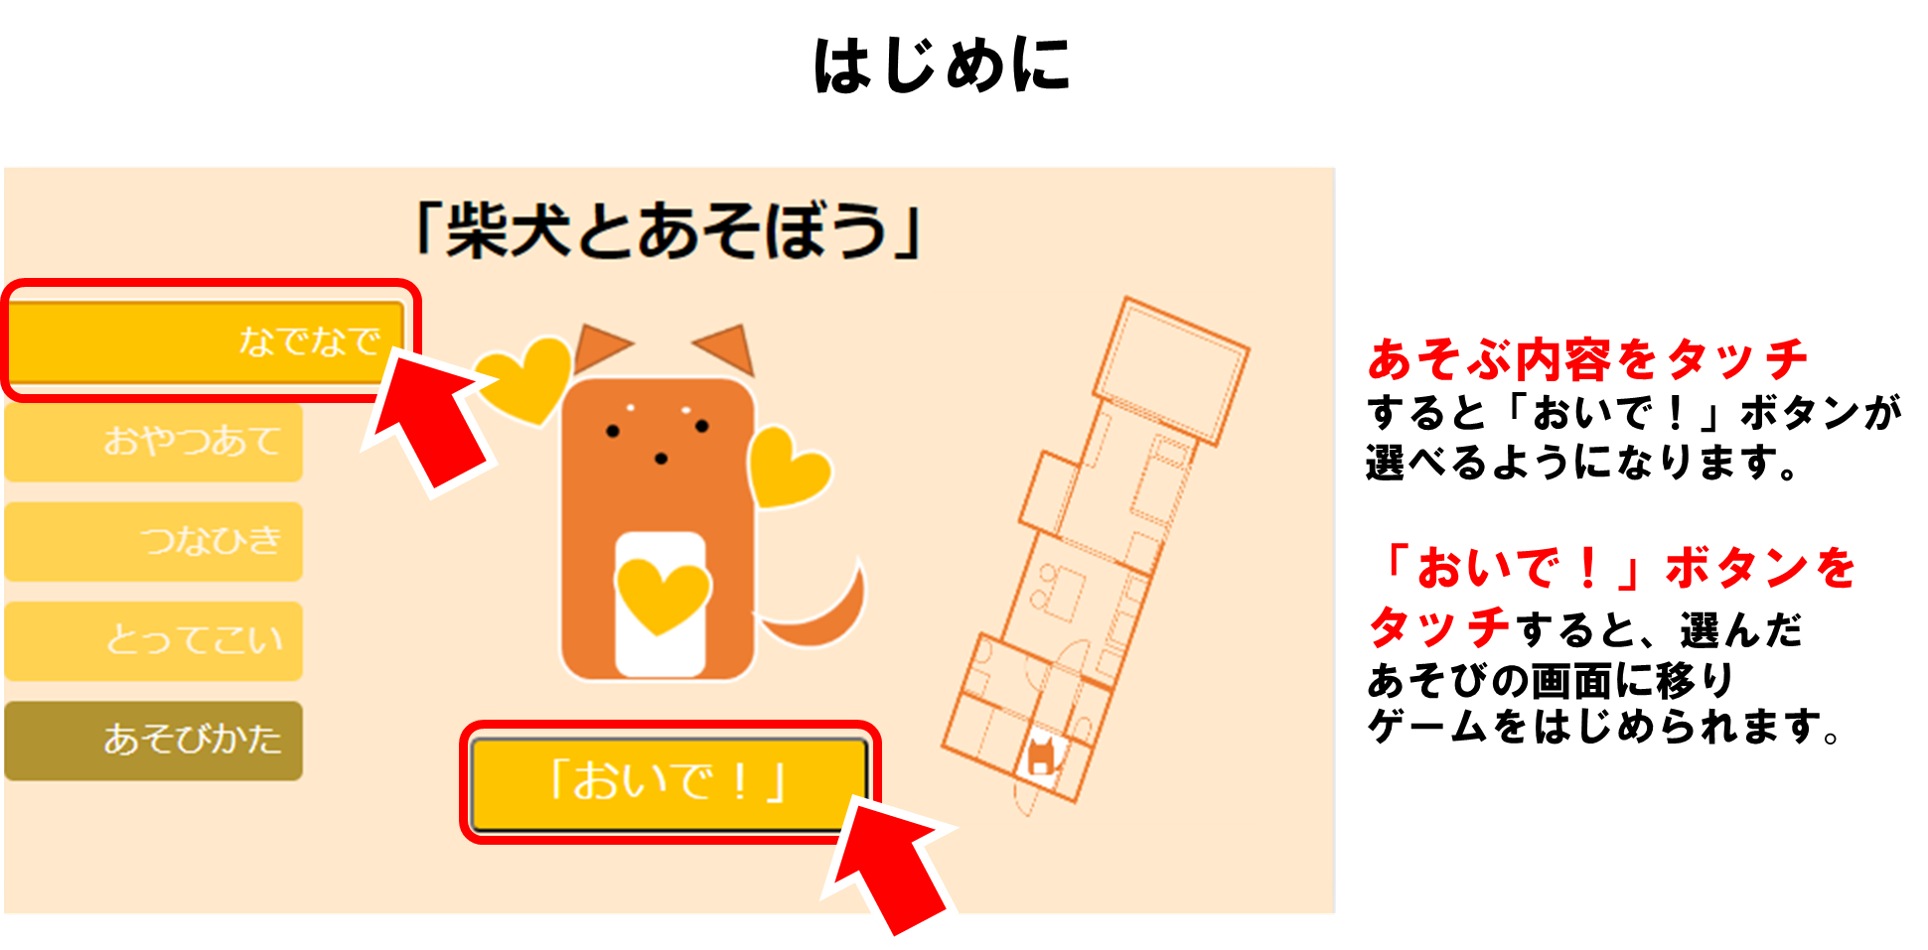
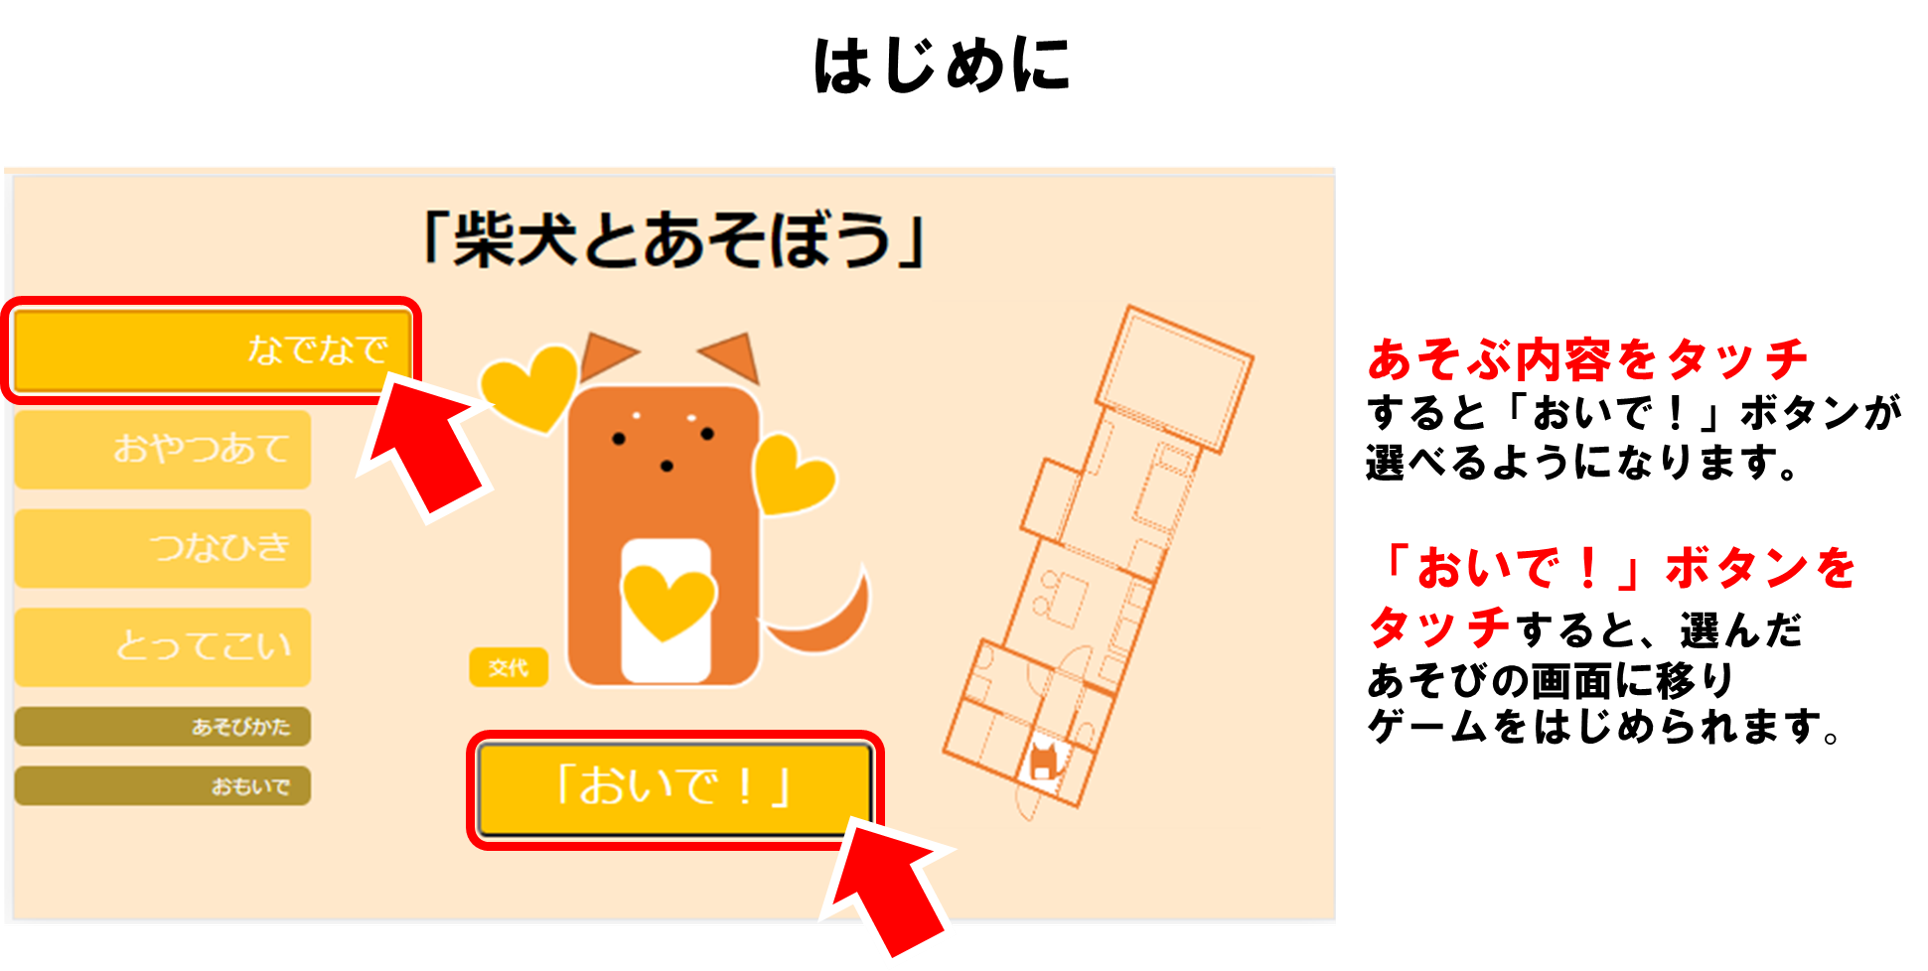
13:26

diff --git a/memory.html b/memory.html
@@ -1,0 +1,120 @@
+<!DOCTYPE html>
+<html lang="ja">
+<head>
+  <link rel="stylesheet" href="stylesheet.css">
+  <link href="https://use.fontawesome.com/releases/v5.0.8/css/all.css" rel="stylesheet">
+  <meta charset="utf-8">
+  <meta name="viewport" content="width=device-width,initial-scale=1">
+  <title>柴犬とあそぼう</title>
+</head>
+<body>
+  <header>
+    <h1>おもいで</h1>
+  </header>
+  <main>
+    <section class="memory_title">
+      <h4>なでなで</h4>
+      <h4>おやつあて</h4>
+      <h4>つなひき</h4>
+      <h4>とってこい</h4>
+    </section>
+
+    <section  class="memory_table">
+      <table class="nade" align="center">
+        <tr>
+          <th>おもいで</th>
+          <th>入手</th>
+        </tr>
+        <tr>
+          <td>- - -</td>
+          <td class="td_img"><img id="memory_niku" src="img/memory.png"></td>
+        </tr>
+        <tr>
+          <td>- - ♡</td>
+          <td class="td_img"><img id="memory_niku" src="img/memory.png"></td>
+        </tr>
+        <tr>
+          <td>- ♡♡</td>
+          <td class="td_img"><img id="memory_niku" src="img/memory.png"></td>
+        </tr>
+        <tr>
+          <td>♡♡♡</td>
+          <td class="td_img"><img id="memory_niku" src="img/memory.png"></td>
+        </tr>
+      </table>
+      <table class="oyatsu" align="center">
+        <tr>
+          <th>おもいで</th>
+          <th>入手</th>
+        </tr>
+        <tr>
+          <td>score0</td>
+          <td class="td_img"><img id="memory_niku" src="img/memory.png"></td>
+        </tr>
+        <tr>
+          <td>score1</td>
+          <td class="td_img"><img id="memory_niku" src="img/memory.png"></td>
+        </tr>
+        <tr>
+          <td>score2</td>
+          <td class="td_img"><img id="memory_niku" src="img/memory.png"></td>
+        </tr>
+        <tr>
+          <td>score3</td>
+          <td class="td_img"><img id="memory_niku" src="img/memory.png"></td>
+        </tr>
+      </table>
+      <table class="tsuna" align="center">
+        <tr>
+          <th>おもいで</th>
+          <th>入手</th>
+        </tr>
+        <tr>
+          <td>score0</td>
+          <td class="td_img"><img id="memory_niku" src="img/memory.png"></td>
+        </tr>
+        <tr>
+          <td>score1</td>
+          <td class="td_img"><img id="memory_niku" src="img/memory.png"></td>
+        </tr>
+        <tr>
+          <td>score2</td>
+          <td class="td_img"><img id="memory_niku" src="img/memory.png"></td>
+        </tr>
+        <tr>
+          <td>score3</td>
+          <td class="td_img"><img id="memory_niku" src="img/memory.png"></td>
+        </tr>
+      </table>
+      <table class="totte" align="center">
+        <tr>
+          <th>おもいで</th>
+          <th>入手</th>
+        </tr>
+        <tr>
+          <td>score0</td>
+          <td class="td_img"><img id="memory_niku" src="img/memory.png"></td>
+        </tr>
+        <tr>
+          <td>score1</td>
+          <td class="td_img"><img id="memory_niku" src="img/memory.png"></td>
+        </tr>
+        <tr>
+          <td>score2</td>
+          <td class="td_img"><img id="memory_niku" src="img/memory.png"></td>
+        </tr>
+        <tr>
+          <td>score3</td>
+          <td class="td_img"><img id="memory_niku" src="img/memory.png"></td>
+        </tr>
+      </table>
+    </section>
+
+  </main>
+  <footer>
+    <h6>! すべての「おもいで」を入手すると、柴犬の種類がえらべるようになります。</h6>
+    <button id="memory_fin" class="fin" type="submit" onclick='location.href="index.html"'>もどる</button>
+  </footer>
+  <script src="main.js"></script>
+</body>
+</html>

diff --git a/stylesheet.css b/stylesheet.css
@@ -107,9 +107,27 @@ main{
    color: white;
    margin: 10px auto 0 0;
   }
-.unselected{
-  width: 150px;
-  opacity: 0.6;
+  .unselected{
+    width: 150px;
+    opacity: 0.6;
+  }
+  
+  #trophy{
+    width:150px ;
+    background-color:rgb(177, 147, 49) ;
+    height: 20px;
+    font-size: 9px;
+  }
+
+#inu_change{
+  width: 40px;
+  height: 20px;
+  font-size: 5px;
+  border: none;
+  display: block;
+  position: absolute;
+  left: 230px;
+  top: 170px;
 }
 
 .defInu{
@@ -157,6 +175,8 @@ main{
 #modal_open{
   background-color:rgb(177, 147, 49);
   width: 150px;  
+  height: 20px;
+  font-size: 9px;
 }
 
 #slide_btns{
@@ -167,6 +187,7 @@ main{
   padding-bottom: 13px;
   border: 4px dotted #aaa;
   border-top: none;
+  z-index: 5;
   animation: fadeIn 0.5s;
 } 
 @keyframes fadeIn {
@@ -360,4 +381,42 @@ a{
 /* またね */
 .back{
   background-color: rgb(255, 196, 0);
+}
+
+/* -------------おもいで画面---- */
+.memory_title{
+  margin-top: 20px;
+}
+h4{
+  display: inline; 
+  margin:0 45px;
+}
+
+.memory_table{
+  display: flex;
+}
+table{
+  width: 160px;
+  font-size: 12px;
+  margin: 10px auto 20px auto;
+  border: solid 4px white;
+  background-color: rgba(255,255,255,0.5);
+  background-blend-mode: lighten;
+}
+table th, table td{
+  border:dashed 1px white;
+}
+
+#memory_niku{
+  width: 15px;
+}
+.td_img{
+  padding: 0;
+  padding-top:2px;
+}
+#memory_fin{
+  margin-left: 8px;
+}
+h6{
+  margin: 0 auto 30px 8px;
 }

diff --git a/index.html b/index.html
@@ -25,9 +25,12 @@
       <button id="tsuna" type="button" class="unselected">つなひき</button>
       <button id="totte" type="button" class="unselected">とってこい</button>
       <button id="modal_open" type="button">あそびかた</button>
+      <button id="trophy" type="button" onclick="location.href='memory.html'">おもいで</button>
     </div>
+    <button id="inu_change" type="button" class="">交代</button>
+    <!-- classにhidden入れたい。 -->
 
-    <img class="defInu" src="img/gamestart_dog.png">
+    <img class="defInu" src="img/gamestart_dog_black.png">
 
     <img id="map" src="img/map_def.png">
 

diff --git a/main.js b/main.js
@@ -4,7 +4,6 @@
   //HTMLから取得
   const question = document.getElementById('question');
   const choices = document.getElementById('choices');
-  // const list = document.getElementById('li');
   const btn = document.getElementById('btn');
   const fin = document.getElementById('fin');
   const scoreLabel = document.querySelector('#result>p');
